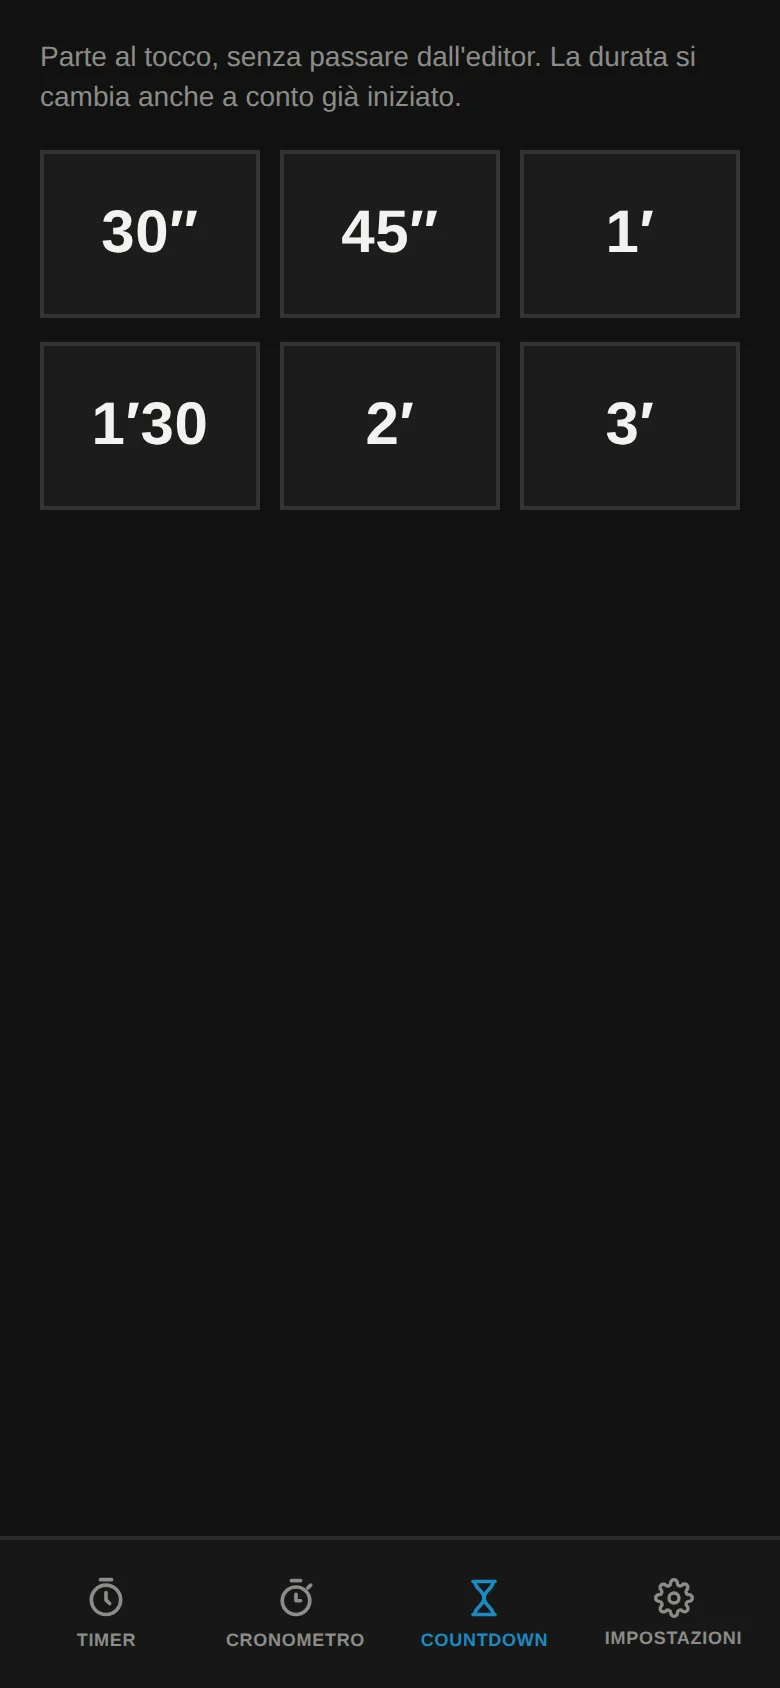
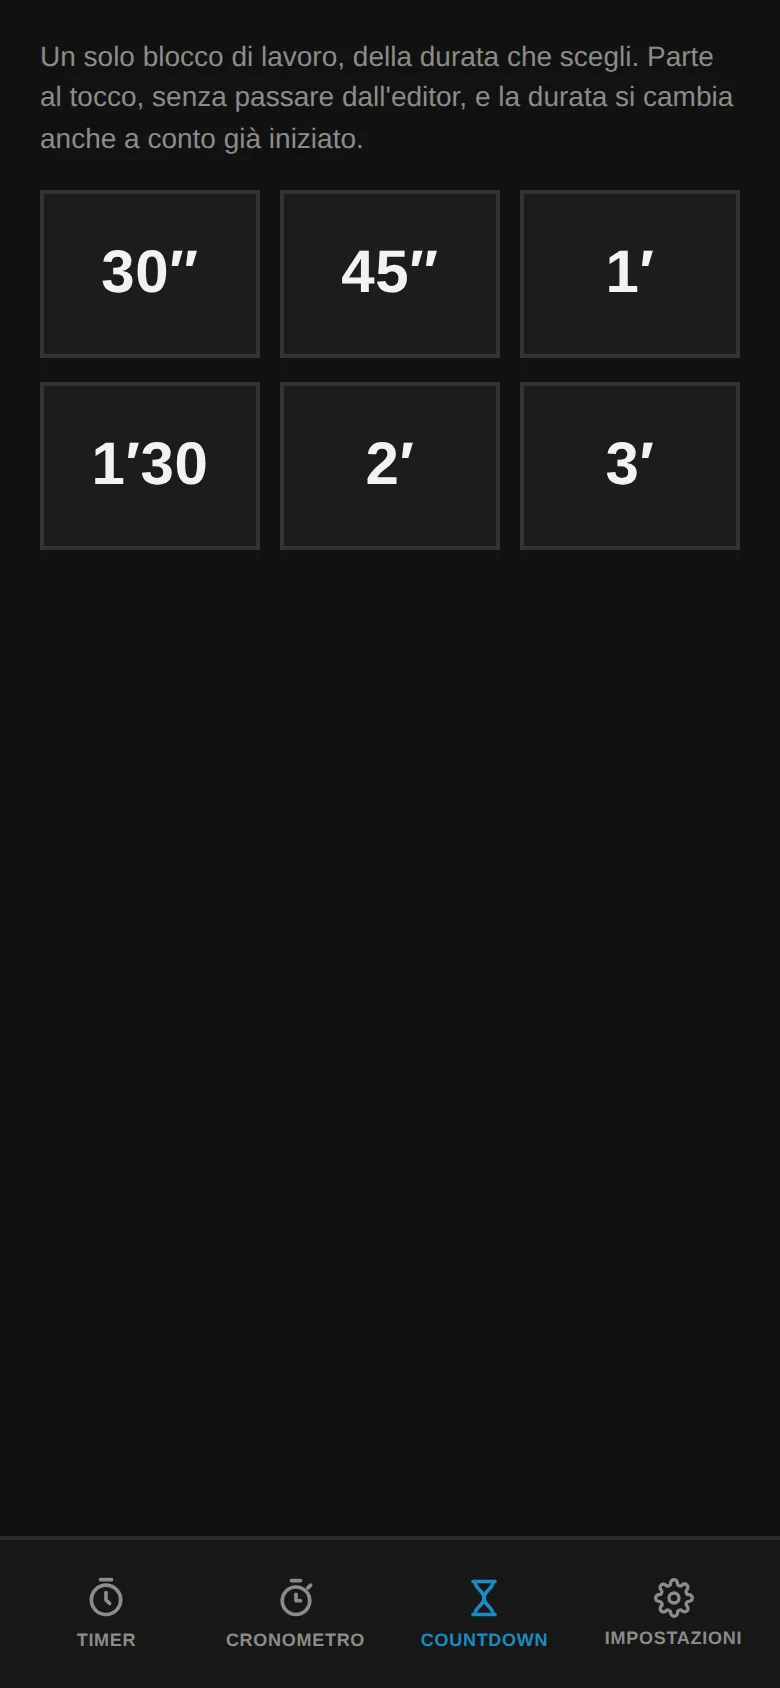
Il conto alla rovescia è lavoro, non recupero
Segnalato guardando l'app in sala: diceva RECUPERO in verde, con «Fiato, e
poi si va» sotto le cifre. Ma il conto alla rovescia non è una pausa — è un
blocco di lavoro lungo quanto la durata scelta, il plank da novanta secondi,
non il respiro fra due serie.

Quindi mentre gira porta il rosso del lavoro e scrive LAVORO, come il timer
degli allenamenti sul suo intervallo di lavoro. Allo zero passa al verde, che
in quest'app vuol dire finito: è lo stesso verde con cui il timer scrive
COMPLETATO. Il cambio di colore allo zero resta — si vede da tutta la sala
senza sentire niente — solo ribaltato: da rosso a verde invece che da verde a
rosso.

Verificato in Chromium sul giro completo: in corsa LAVORO e cornice #e4292a,
in pausa lo stesso rosso, allo zero TEMPO e cornice #16a54a con le cifre a
00:00, e dopo RIFAI si torna al rosso. Le due suite di prima — sedici formati
del timer, otto degli attrezzi — passano invariate.

Riallineata anche la guida, testo e schermata, e la versione sale a 1.1.1.

Claude-Session: https://claude.ai/code/session_01JooCXtaGijCA4t1W81KEnw

diff --git a/public/guida.html b/public/guida.html
@@ -362,7 +362,7 @@
     </p>
     <div class="riga-versione">
       <span>Officine Dello Sport · Collegno</span>
-      <span>ODS Timer 1.1.0</span>
+      <span>ODS Timer 1.1.1</span>
       <span>nalbertini.github.io/Timer-</span>
     </div>
   </header>
@@ -461,7 +461,7 @@
             <tbody>
               <tr><td class="nome-schema">TIMER</td><td>I tuoi allenamenti. Da qui si avvia, si modifica, si duplica, si manda, si elimina.</td></tr>
               <tr><td class="nome-schema">CRONOMETRO</td><td>Conta in salita, con i centesimi e i giri. Per un randori, una navetta, un test.</td></tr>
-              <tr><td class="nome-schema">COUNTDOWN</td><td>Sei durate che partono al tocco, per «novanta secondi e si riparte».</td></tr>
+              <tr><td class="nome-schema">COUNTDOWN</td><td>Sei durate che partono al tocco: un blocco di lavoro lungo quanto dici.</td></tr>
               <tr><td class="nome-schema">IMPOSTAZIONI</td><td>Maurizio, suoni, voce, schermo, libreria esercizi, copie di sicurezza, storico, versione, e questa guida.</td></tr>
             </tbody>
           </table>
@@ -497,13 +497,15 @@
 
         <h3>Countdown</h3>
         <p>
-          Sei durate — <strong>30″, 45″, 1′, 1′30, 2′, 3′</strong> — che partono al tocco. È la risposta a
-          «novanta secondi e si riparte», che prima costringeva a creare e salvare un timer apposta.
+          Sei durate — <strong>30″, 45″, 1′, 1′30, 2′, 3′</strong> — che partono al tocco. È
+          <strong>un solo blocco di lavoro</strong> della durata che scegli: non un recupero, ma il pezzo di lezione
+          che dura tanto quanto hai detto. La risposta a «novanta secondi di plank», che prima costringeva a
+          creare e salvare un timer apposta.
         </p>
         <ul>
           <li>La freccia in alto a sinistra torna alle durate senza chiudere niente: <strong>si cambia idea a conto già iniziato</strong>, perché la sala risponde meglio o peggio del previsto.</li>
           <li>C'è il <span class="tasto">+30″</span> del timer grande, e <span class="tasto">RIFAI</span> per ripartire da capo.</li>
-          <li>Allo zero la cornice passa da verde a <strong>rosso</strong>, con la scritta TEMPO e il segnale di fine: si vede da tutta la sala anche senza sentire niente.</li>
+          <li>Mentre gira la cornice è <strong>rossa</strong>, come il lavoro del timer degli allenamenti, e la scritta dice LAVORO. Allo zero passa al <strong>verde</strong> — il verde con cui l'app dice «finito» — con la scritta TEMPO e il segnale di fine: si vede da tutta la sala anche senza sentire niente.</li>
         </ul>
 
         <div class="scatti">
@@ -512,8 +514,8 @@
       <figcaption>Sei durate da premere senza guardare.</figcaption>
     </figure>
     <figure>
-      <img src="guida/countdown.webp" alt="Conto alla rovescia in corso, cornice verde" width="820" height="1688" loading="lazy">
-      <figcaption>Il conto in corsa: la freccia in alto torna alle durate, RIFAI ricomincia.</figcaption>
+      <img src="guida/countdown.webp" alt="Conto alla rovescia in corso, cornice rossa, stato LAVORO" width="820" height="1688" loading="lazy">
+      <figcaption>Il conto in corsa: cornice rossa perché è lavoro, la freccia in alto torna alle durate, RIFAI ricomincia.</figcaption>
     </figure>
         </div>
 
@@ -1074,7 +1076,7 @@
         </p>
         <p>
           In fondo alle impostazioni, la sezione VERSIONE dice esattamente quale copia hai in mano: il
-          <strong>numero di versione</strong> (ODS TIMER 1.1.0), il <strong>codice della compilazione</strong> scritto
+          <strong>numero di versione</strong>, il <strong>codice della compilazione</strong> scritto
           in piccolo di fianco, e la <strong>data</strong>. Servono quando una cosa si prova sul telefono e ci si
           chiede se è già arrivata sul tablet: se i due numeri coincidono, è la stessa app. Sotto c'è
           <span class="tasto">CONTROLLA AGGIORNAMENTI</span>, per quando serve una risposta subito — tipicamente sul

diff --git a/src/components/AlVolo.tsx b/src/components/AlVolo.tsx
@@ -193,7 +193,8 @@ function ScegliDurata({ onScegli }: { onScegli: (secondi: number) => void }) {
   return (
     <div className="scroll scelta-durate">
       <p className="pad" style={{ fontSize: 14, lineHeight: 1.45, color: 'var(--dim)', margin: '0 0 2px' }}>
-        Parte al tocco, senza passare dall'editor. La durata si cambia anche a conto già iniziato.
+        Un solo blocco di lavoro, della durata che scegli. Parte al tocco, senza passare dall'editor, e
+        la durata si cambia anche a conto già iniziato.
       </p>
       <div className="pad" style={{ paddingTop: 14, paddingBottom: 24 }}>
         <div className="volo-griglia">
@@ -291,7 +292,12 @@ function ContaAllaRovescia({
     else setFine((f) => (f ?? performance.now()) + 30000)
   }
 
-  const tinta = aZero ? 'var(--rosso)' : 'var(--verde)'
+  /* Il conto alla rovescia è un blocco di lavoro della durata scelta, non un
+     recupero: mentre gira porta il rosso del lavoro, e allo zero passa al
+     verde, che in quest'app vuol dire finito — è lo stesso verde con cui il
+     timer degli allenamenti scrive COMPLETATO. Il cambio di colore allo zero
+     resta, ribaltato: da rosso a verde. */
+  const tinta = aZero ? 'var(--verde)' : 'var(--rosso)'
   const mostrato = Math.ceil(resto / 1000)
   const avanzamento = durata > 0 ? Math.min(1, svolti / (durata * 1000)) : 0
 
@@ -326,9 +332,9 @@ function ContaAllaRovescia({
         </div>
 
         <div className="timer-col" style={{ alignItems: 'center', gap: 4 }}>
-          <span className="state-label">{aZero ? 'TEMPO' : inCorso ? 'RECUPERO' : 'IN PAUSA'}</span>
+          <span className="state-label">{aZero ? 'TEMPO' : inCorso ? 'LAVORO' : 'IN PAUSA'}</span>
           <Digits value={`${pad(Math.floor(mostrato / 60))}:${pad(mostrato % 60)}`} />
-          <span className="exercise">{aZero ? 'Si riparte' : 'Fiato, e poi si va'}</span>
+          <span className="exercise">{aZero ? 'Tempo scaduto' : 'Si lavora fino a zero'}</span>
         </div>
       </div>
 
